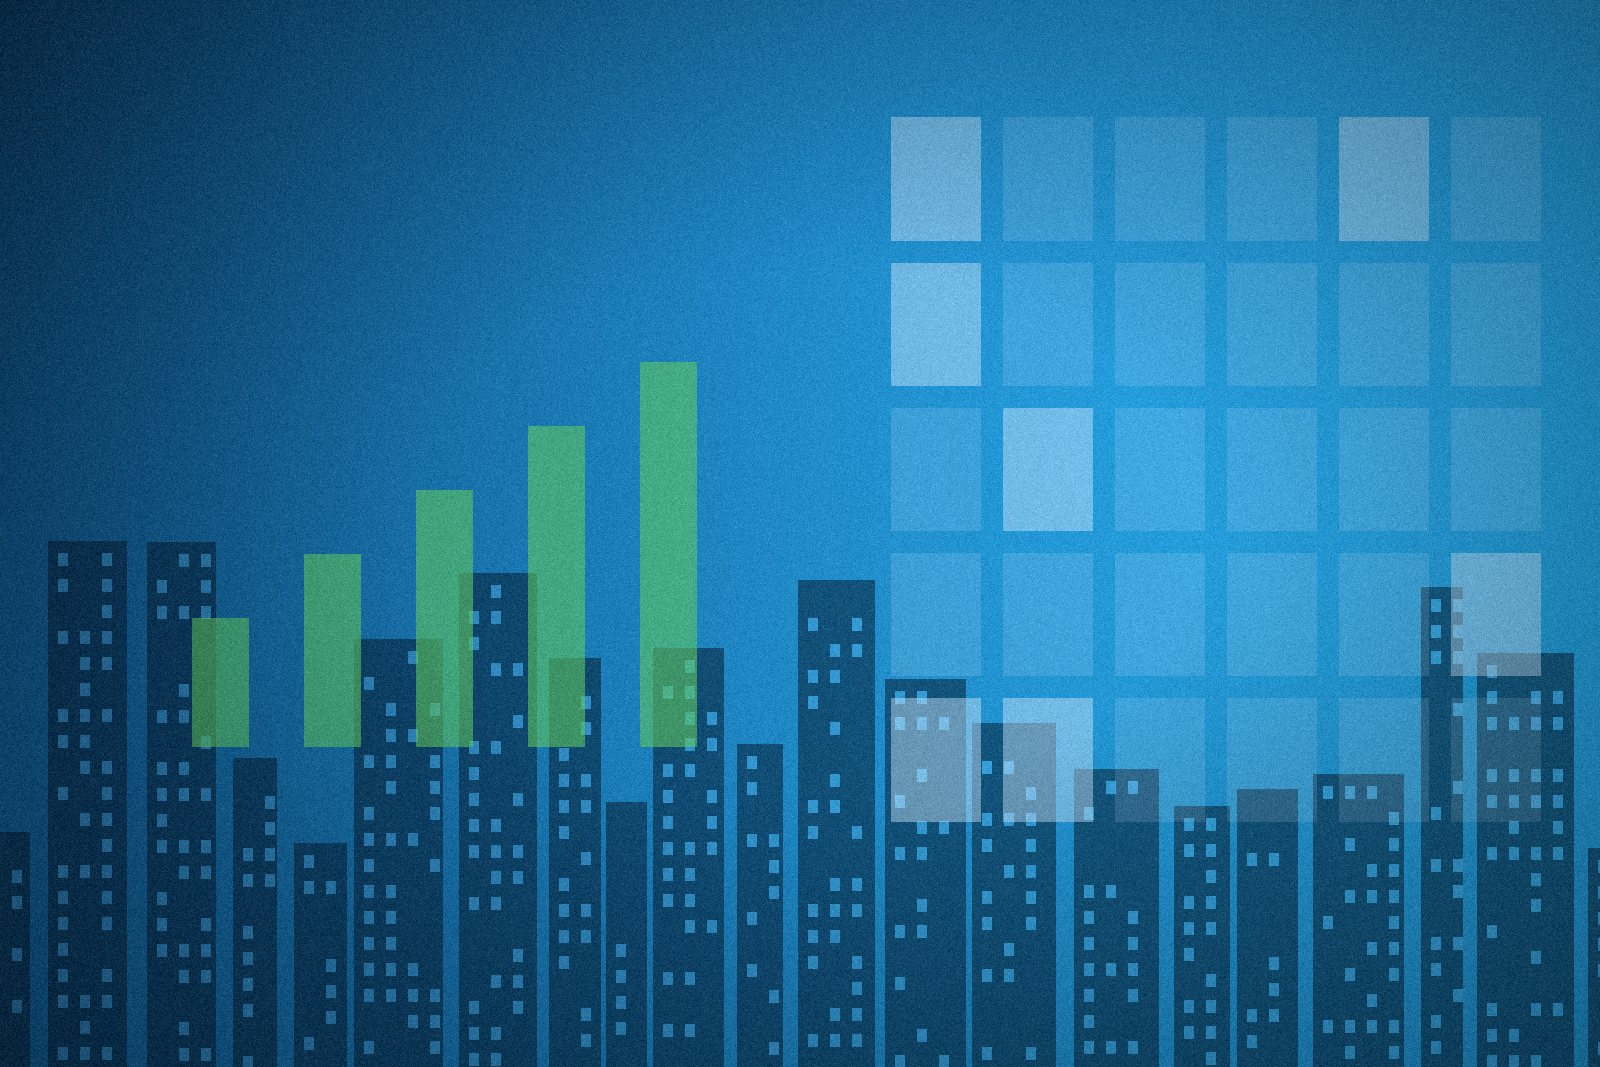
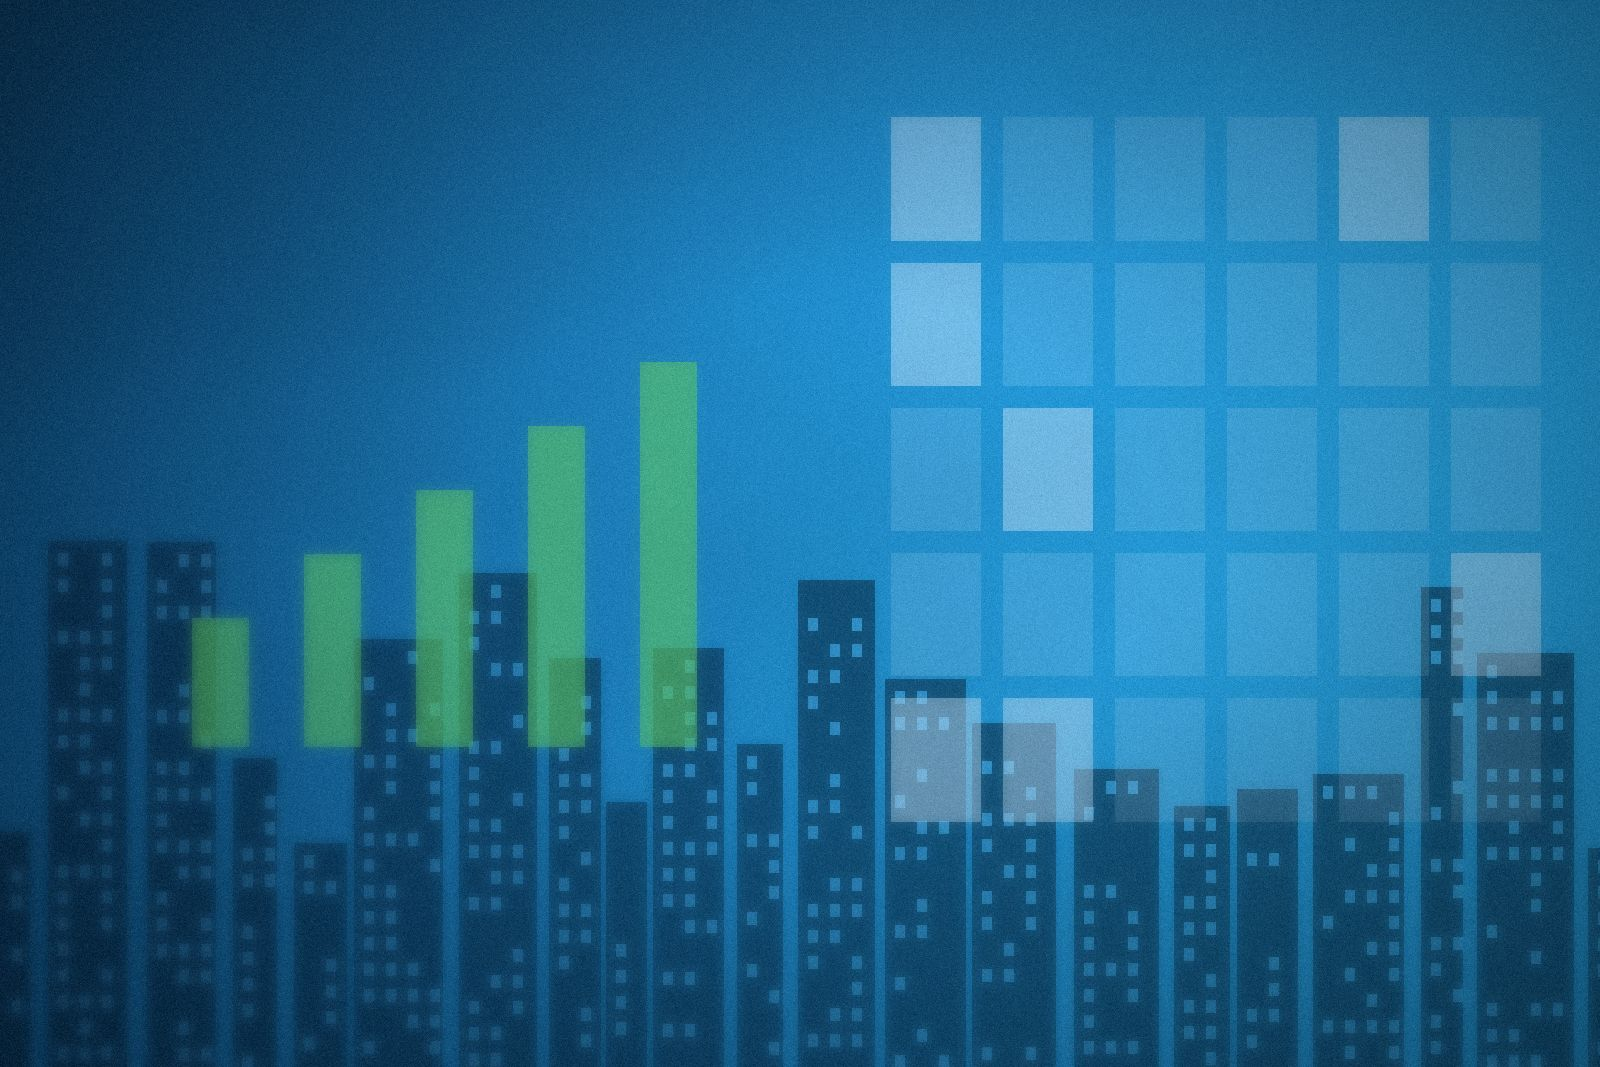
Placeholders fotografisch verfijnd + lichter gemaakt
- Dieptescherpte (depth-of-field): scherp rond het focuspunt, zachte focus-afval
  naar de randen
- Fijne film-/duotone-textuur (fractale ruis) voor een organische, niet-vlakke
  fotografische uitstraling
- Vignet en korrel verfijnd
- Bestandsgroottes flink verlaagd (progressive JPEG, q80, hero 1760px):
  hero 543KB -> 239KB; overige ~150-210KB
- make_placeholders.py bijgewerkt; bestandsnamen ongewijzigd (geen HTML-wijziging)

diff --git a/tools/make_placeholders.py b/tools/make_placeholders.py
@@ -3,11 +3,14 @@
 Yiska Cleaning VOF — premium tijdelijke placeholder-afbeeldingen.
 
 Genereert hoogwaardige, on-brand placeholder-JPG's (geen cartoons, geen stock,
-geen lege vlakken) die de site visueel compleet maken tot de definitieve
-Yiska-foto's beschikbaar zijn. Elke afbeelding gebruikt de huisstijl-gradient,
-architectuur-/glasmotieven, zacht licht, vignet en lichte korrel.
+geen lege vlakken). Naast de huisstijl-gradient en architectuur-/glasmotieven
+krijgen ze nu een fotografische afwerking:
+  • dieptescherpte (depth-of-field): zachte focus-afval naar de randen
+  • fijne film-/duotone-textuur voor een organische, niet-vlakke uitstraling
+  • vignet + korrel
+Bestandsgroottes zijn geoptimaliseerd (progressive JPEG).
 
-    python3 tools/make_placeholders.py            # -> assets/images/*-placeholder.jpg
+    python3 tools/make_placeholders.py
 """
 import os
 import numpy as np
@@ -26,6 +29,7 @@ GREEN2 = (95, 200, 95)
 STEEL = (34, 62, 92)
 
 
+# ---------- achtergrond / licht ----------
 def grad(w, h, top, bot, t_dir="diag"):
     ys = np.linspace(0, 1, h)[:, None]
     xs = np.linspace(0, 1, w)[None, :]
@@ -36,8 +40,7 @@ def grad(w, h, top, bot, t_dir="diag"):
     else:
         t = np.repeat(xs, h, axis=0)
     t = t[..., None]
-    base = np.array(top)[None, None, :] * (1 - t) + np.array(bot)[None, None, :] * t
-    return base
+    return np.array(top)[None, None, :] * (1 - t) + np.array(bot)[None, None, :] * t
 
 
 def glow(arr, center, color, sigma, strength=1.0):
@@ -46,57 +49,94 @@ def glow(arr, center, color, sigma, strength=1.0):
     cx, cy = center[0] * w, center[1] * h
     d2 = (xx - cx) ** 2 + (yy - cy) ** 2
     g = np.exp(-d2 / (2 * (sigma * max(w, h)) ** 2))[..., None] * strength
-    col = np.array(color)[None, None, :]
-    # screen-achtige blend
-    return arr + (255 - arr) * (g * (col / 255.0))
-
-
-def vignette(arr, amount=0.38):
-    h, w, _ = arr.shape
-    yy, xx = np.mgrid[0:h, 0:w]
-    d = np.sqrt(((xx - w / 2) / (w / 2)) ** 2 + ((yy - h / 2) / (h / 2)) ** 2)
-    v = np.clip(1 - amount * np.clip(d - 0.5, 0, 1.5), 0, 1)[..., None]
-    return arr * v
-
-
-def grain(arr, amount=7.0):
-    n = np.random.default_rng(7).normal(0, amount, arr.shape[:2])[..., None]
-    return arr + n
-
-
-def overlay(img, draw_fn):
-    ov = Image.new("RGBA", img.size, (0, 0, 0, 0))
-    d = ImageDraw.Draw(ov)
-    draw_fn(d, img.size)
-    return Image.alpha_composite(img.convert("RGBA"), ov).convert("RGB")
-
-
-def soft_overlay(img, draw_fn, blur=0):
-    ov = Image.new("RGBA", img.size, (0, 0, 0, 0))
-    d = ImageDraw.Draw(ov)
-    draw_fn(d, img.size)
-    if blur:
-        ov = ov.filter(ImageFilter.GaussianBlur(blur))
-    return Image.alpha_composite(img.convert("RGBA"), ov).convert("RGB")
+    return arr + (255 - arr) * (g * (np.array(color)[None, None, :] / 255.0))
 
 
 def base_image(w, h, top, bot, glow_center, glow_color, glow_sigma=0.5, glow_str=0.9):
-    arr = grad(w, h, top, bot)
-    arr = glow(arr, glow_center, glow_color, glow_sigma, glow_str)
+    return glow(grad(w, h, top, bot), glow_center, glow_color, glow_sigma, glow_str)
+
+
+# ---------- fotografische afwerking ----------
+def fractal(w, h, seed, octaves=5):
+    """Zachte fractale ruis (0..1) — wolk-/lichtachtige textuur."""
+    acc = np.zeros((h, w))
+    amp, total = 1.0, 0.0
+    rng = np.random.default_rng(seed)
+    for o in range(octaves):
+        cells = 3 * (2 ** o)
+        small = (rng.random((cells, cells)) * 255).astype(np.uint8)
+        up = np.asarray(Image.fromarray(small).resize((w, h), Image.BICUBIC)) / 255.0
+        acc += amp * up
+        total += amp
+        amp *= 0.55
+    return acc / total
+
+
+def photo_texture(arr, seed, strength=0.12, tint=BLUE2):
+    """Fijne duotone/film-textuur: organische licht-donkervariatie + lichte tint."""
+    h, w, _ = arr.shape
+    fr = fractal(w, h, seed)
+    t = (fr - fr.mean())[..., None]
+    arr = arr * (1 + strength * t)                      # luminantie-modulatie
+    arr = arr + (np.array(tint)[None, None, :] - arr) * (np.clip(t, 0, None) * 0.06)
     return arr
 
 
-def finish(arr, path, quality=84):
+def depth_of_field(img, focal=(0.5, 0.45), radius=7, focus_sigma=0.42):
+    """Zachte dieptescherpte: scherp rond het focuspunt, vervaagd naar de randen."""
+    w, h = img.size
+    blurred = img.filter(ImageFilter.GaussianBlur(radius))
+    yy, xx = np.mgrid[0:h, 0:w]
+    cx, cy = focal[0] * w, focal[1] * h
+    d2 = ((xx - cx) / w) ** 2 + ((yy - cy) / h) ** 2
+    focus = np.exp(-d2 / (2 * focus_sigma ** 2))        # 1 = scherp, 0 = vervaagd
+    mask = Image.fromarray((focus * 255).astype(np.uint8), "L")
+    return Image.composite(img, blurred, mask)
+
+
+def vignette(arr, amount=0.40):
+    h, w, _ = arr.shape
+    yy, xx = np.mgrid[0:h, 0:w]
+    d = np.sqrt(((xx - w / 2) / (w / 2)) ** 2 + ((yy - h / 2) / (h / 2)) ** 2)
+    v = np.clip(1 - amount * np.clip(d - 0.45, 0, 1.5), 0, 1)[..., None]
+    return arr * v
+
+
+def grain(arr, amount=5.0, seed=7):
+    n = np.random.default_rng(seed).normal(0, amount, arr.shape[:2])[..., None]
+    return arr + n
+
+
+def finish(img, path, focal=(0.5, 0.45), seed=1, quality=80, dof=7, max_w=None):
+    if max_w and img.size[0] > max_w:
+        nh = round(img.size[1] * max_w / img.size[0])
+        img = img.resize((max_w, nh), Image.LANCZOS)
+    img = depth_of_field(img, focal=focal, radius=dof)         # dieptescherpte
+    arr = np.asarray(img).astype(np.float64)
+    arr = photo_texture(arr, seed=seed)                        # film/duotone-textuur
     arr = vignette(arr)
-    arr = grain(arr)
+    arr = grain(arr, seed=seed)
     arr = np.clip(arr, 0, 255).astype(np.uint8)
     Image.fromarray(arr, "RGB").save(path, "JPEG", quality=quality, optimize=True, progressive=True)
     kb = os.path.getsize(path) // 1024
     print(f"  ✓ {path}  ({arr.shape[1]}x{arr.shape[0]}, {kb} KB)")
 
 
-# ---- Motieven ----
-def window_grid(d, size, cols, rows, color, lit=0.25, alpha=42, lit_alpha=120, x0=0.05, x1=0.95, y0=0.1, y1=0.95):
+def pil(arr):
+    return Image.fromarray(np.clip(arr, 0, 255).astype(np.uint8), "RGB")
+
+
+def overlay(img, draw_fn, blur=0):
+    ov = Image.new("RGBA", img.size, (0, 0, 0, 0))
+    draw_fn(ImageDraw.Draw(ov), img.size)
+    if blur:
+        ov = ov.filter(ImageFilter.GaussianBlur(blur))
+    return Image.alpha_composite(img.convert("RGBA"), ov).convert("RGB")
+
+
+# ---------- motieven ----------
+def window_grid(d, size, cols, rows, color, lit=0.25, alpha=42, lit_alpha=120,
+                x0=0.05, x1=0.95, y0=0.1, y1=0.95):
     w, h = size
     rng = np.random.default_rng(3)
     cw = (x1 - x0) * w / cols
@@ -107,8 +147,7 @@ def window_grid(d, size, cols, rows, color, lit=0.25, alpha=42, lit_alpha=120, x
             y = y0 * h + j * ch
             pad = cw * 0.10
             a = lit_alpha if rng.random() < lit else alpha
-            d.rectangle([x + pad, y + pad, x + cw - pad, y + ch - pad],
-                        fill=color + (a,))
+            d.rectangle([x + pad, y + pad, x + cw - pad, y + ch - pad], fill=color + (a,))
 
 
 def skyline(d, size, color=(4, 22, 40), alpha=150):
@@ -119,7 +158,6 @@ def skyline(d, size, color=(4, 22, 40), alpha=150):
         bw = rng.integers(40, 110)
         bh = rng.integers(int(h * 0.18), int(h * 0.5))
         d.rectangle([x, h - bh, x + bw, h], fill=color + (alpha,))
-        # vensters
         for vy in range(h - bh + 12, h - 10, 26):
             for vx in range(int(x) + 10, int(x + bw) - 8, 22):
                 if rng.random() < 0.5:
@@ -135,48 +173,47 @@ def droplet(d, size, cx, cy, s, color, alpha=70):
               fill=color + (alpha,))
 
 
-def streak(img, size, p0, p1, width, color=(255, 255, 255), alpha=46, blur=22):
+def streak(img, p0, p1, width, color=(255, 255, 255), alpha=46, blur=22):
     def fn(d, sz):
         w, h = sz
-        d.line([(p0[0] * w, p0[1] * h), (p1[0] * w, p1[1] * h)],
-               fill=color + (alpha,), width=width)
-    return soft_overlay(img, fn, blur=blur)
+        d.line([(p0[0] * w, p0[1] * h), (p1[0] * w, p1[1] * h)], fill=color + (alpha,), width=width)
+    return overlay(img, fn, blur=blur)
 
 
+# ---------- afbeeldingen ----------
 def make_hero():
-    w, h = 1920, 1200
+    w, h = 1760, 1100
     arr = base_image(w, h, NAVY, BLUE, (0.78, 0.28), BLUE2, 0.55, 1.0)
     arr = glow(arr, (0.12, 0.85), GREEN, 0.4, 0.5)
-    img = Image.fromarray(np.clip(arr, 0, 255).astype(np.uint8), "RGB")
+    img = pil(arr)
     img = overlay(img, lambda d, s: skyline(d, s))
     img = overlay(img, lambda d, s: window_grid(d, s, 9, 6, (200, 228, 250), x0=0.5, x1=0.98, y0=0.05, y1=0.8))
-    img = overlay(img, lambda d, s: droplet(d, s, 0.30, 0.42, 150, CYAN, 60))
-    img = streak(img, (w, h), (0.45, 0.1), (0.7, 0.95), 120, alpha=40, blur=40)
-    finish(np.asarray(img).astype(np.float64), f"{OUT}/hero-placeholder.jpg", 86)
+    img = overlay(img, lambda d, s: droplet(d, s, 0.30, 0.42, 140, CYAN, 60))
+    img = streak(img, (0.45, 0.1), (0.7, 0.95), 120, alpha=40, blur=40)
+    finish(img, f"{OUT}/hero-placeholder.jpg", focal=(0.72, 0.42), seed=21, quality=80, dof=8)
 
 
 def make_office():
     w, h = 1600, 1067
     arr = base_image(w, h, NAVY2, BLUE, (0.7, 0.25), BLUE2, 0.5, 0.85)
-    img = Image.fromarray(np.clip(arr, 0, 255).astype(np.uint8), "RGB")
-    # grote raamvlakken met licht
+    img = pil(arr)
     img = overlay(img, lambda d, s: window_grid(d, s, 4, 3, (210, 232, 252), lit=0.35, alpha=34, lit_alpha=120, x0=0.06, x1=0.94, y0=0.08, y1=0.92))
-    # bureaus / silhouetten onderaan
+
     def desks(d, s):
         ww, hh = s
-        for i, x in enumerate(np.linspace(0.1, 0.85, 4)):
+        for x in np.linspace(0.1, 0.85, 4):
             d.rectangle([x * ww, hh * 0.74, x * ww + ww * 0.12, hh * 0.8], fill=(8, 26, 46, 150))
     img = overlay(img, desks)
-    img = streak(img, (w, h), (0.2, 0.0), (0.5, 1.0), 90, alpha=36, blur=34)
-    finish(np.asarray(img).astype(np.float64), f"{OUT}/office-cleaning-placeholder.jpg")
+    img = streak(img, (0.2, 0.0), (0.5, 1.0), 90, alpha=36, blur=34)
+    finish(img, f"{OUT}/office-cleaning-placeholder.jpg", focal=(0.5, 0.4), seed=32, dof=6)
 
 
 def make_glass():
     w, h = 1600, 1067
     arr = base_image(w, h, (12, 60, 104), CYAN, (0.5, 0.4), (170, 215, 250), 0.6, 0.7)
-    img = Image.fromarray(np.clip(arr, 0, 255).astype(np.uint8), "RGB")
+    img = pil(arr)
     img = overlay(img, lambda d, s: window_grid(d, s, 3, 2, (255, 255, 255), lit=0.0, alpha=30, x0=0.05, x1=0.95, y0=0.06, y1=0.94))
-    # waterdruppels
+
     def drops(d, s):
         ww, hh = s
         rng = np.random.default_rng(5)
@@ -185,18 +222,17 @@ def make_glass():
             r = rng.integers(2, 7)
             d.ellipse([x, y, x + r, y + r], fill=(255, 255, 255, 40))
     img = overlay(img, drops)
-    # squeegee-veeg (schone diagonale baan)
-    img = streak(img, (w, h), (0.1, 0.15), (0.85, 0.7), 150, alpha=70, blur=30)
-    img = streak(img, (w, h), (0.12, 0.2), (0.87, 0.75), 8, alpha=120, blur=4)
-    finish(np.asarray(img).astype(np.float64), f"{OUT}/glass-cleaning-placeholder.jpg")
+    img = streak(img, (0.1, 0.15), (0.85, 0.7), 150, alpha=70, blur=30)
+    img = streak(img, (0.12, 0.2), (0.87, 0.75), 8, alpha=120, blur=4)
+    finish(img, f"{OUT}/glass-cleaning-placeholder.jpg", focal=(0.5, 0.45), seed=43, dof=5)
 
 
 def make_commercial():
     w, h = 1600, 1067
     arr = base_image(w, h, NAVY, STEEL, (0.25, 0.2), BLUE, 0.5, 0.7)
     arr = glow(arr, (0.85, 0.9), GREEN, 0.35, 0.45)
-    img = Image.fromarray(np.clip(arr, 0, 255).astype(np.uint8), "RGB")
-    # hoge bedrijfsgevels
+    img = pil(arr)
+
     def facades(d, s):
         ww, hh = s
         for x, bw, bh in [(0.05, 0.2, 0.8), (0.28, 0.16, 0.62), (0.47, 0.22, 0.92), (0.72, 0.18, 0.7), (0.9, 0.14, 0.5)]:
@@ -204,66 +240,63 @@ def make_commercial():
             window_grid(d, s, 4, int(bh * 14), (190, 222, 248), lit=0.3, alpha=26, lit_alpha=90,
                         x0=x, x1=x + bw, y0=1 - bh, y1=1.0)
     img = overlay(img, facades)
-    finish(np.asarray(img).astype(np.float64), f"{OUT}/commercial-cleaning-placeholder.jpg")
+    finish(img, f"{OUT}/commercial-cleaning-placeholder.jpg", focal=(0.5, 0.5), seed=54, dof=6)
 
 
 def make_about():
     w, h = 1600, 1067
     arr = base_image(w, h, (10, 50, 70), GREEN, (0.7, 0.7), GREEN2, 0.5, 0.55)
     arr = glow(arr, (0.25, 0.25), BLUE2, 0.45, 0.7)
-    img = Image.fromarray(np.clip(arr, 0, 255).astype(np.uint8), "RGB")
-    # zachte, overlappende cirkels (warmte/samenwerking, abstract)
+    img = pil(arr)
+
     def circles(d, s):
         ww, hh = s
-        for cx, cy, r, a in [(0.3, 0.55, 0.22, 40), (0.5, 0.45, 0.26, 34), (0.68, 0.6, 0.2, 44)]:
+        for cx, cy, r in [(0.3, 0.55, 0.22), (0.5, 0.45, 0.26), (0.68, 0.6, 0.2)]:
             d.ellipse([(cx - r) * ww, (cy - r) * hh, (cx + r) * ww, (cy + r) * hh],
                       outline=(255, 255, 255, 70), width=3)
     img = overlay(img, circles)
     img = overlay(img, lambda d, s: droplet(d, s, 0.5, 0.42, 90, (255, 255, 255), 26))
-    img = streak(img, (w, h), (0.3, 0.0), (0.6, 1.0), 80, alpha=30, blur=36)
-    finish(np.asarray(img).astype(np.float64), f"{OUT}/about-placeholder.jpg")
+    img = streak(img, (0.3, 0.0), (0.6, 1.0), 80, alpha=30, blur=36)
+    finish(img, f"{OUT}/about-placeholder.jpg", focal=(0.5, 0.48), seed=65, dof=7)
 
 
 def make_business():
     w, h = 1600, 1067
     arr = base_image(w, h, NAVY, BLUE, (0.8, 0.2), BLUE2, 0.5, 0.85)
-    img = Image.fromarray(np.clip(arr, 0, 255).astype(np.uint8), "RGB")
+    img = pil(arr)
     img = overlay(img, lambda d, s: skyline(d, s, color=(5, 24, 44), alpha=130))
-    # opgaande staven (groei)
+
     def bars(d, s):
         ww, hh = s
         for i, x in enumerate(np.linspace(0.12, 0.4, 5)):
             bh = 0.12 + i * 0.06
-            d.rectangle([x * ww, hh * (0.7 - bh), x * ww + ww * 0.035, hh * 0.7],
-                        fill=GREEN2 + (150,))
+            d.rectangle([x * ww, hh * (0.7 - bh), x * ww + ww * 0.035, hh * 0.7], fill=GREEN2 + (150,))
     img = overlay(img, bars)
     img = overlay(img, lambda d, s: window_grid(d, s, 6, 5, (200, 228, 250), x0=0.55, x1=0.97, y0=0.1, y1=0.78))
-    finish(np.asarray(img).astype(np.float64), f"{OUT}/business-placeholder.jpg")
+    finish(img, f"{OUT}/business-placeholder.jpg", focal=(0.72, 0.4), seed=76, dof=6)
 
 
 def make_contact():
-    w, h = 1600, 1067
+    w, h = 1600, 900
     arr = base_image(w, h, (8, 40, 66), BLUE, (0.5, 0.35), BLUE2, 0.55, 0.8)
     arr = glow(arr, (0.5, 0.9), GREEN, 0.4, 0.4)
-    img = Image.fromarray(np.clip(arr, 0, 255).astype(np.uint8), "RGB")
+    img = pil(arr)
 
     def pin(d, s):
         ww, hh = s
-        cx, cy, r = 0.5 * ww, 0.42 * hh, 0.1 * hh
+        cx, cy, r = 0.5 * ww, 0.42 * hh, 0.12 * hh
         for rr, a in [(2.6, 26), (2.0, 34), (1.4, 50)]:
-            d.ellipse([cx - r * rr, cy - r * rr, cx + r * rr, cy + r * rr],
-                      outline=(255, 255, 255, a), width=3)
-        d.ellipse([cx - r, cy - r, cx + r, cy + r], fill=(255, 255, 255, 230))
-        d.polygon([(cx - r * 0.7, cy + r * 0.5), (cx + r * 0.7, cy + r * 0.5), (cx, cy + r * 1.9)],
-                  fill=(255, 255, 255, 230))
+            d.ellipse([cx - r * rr, cy - r * rr, cx + r * rr, cy + r * rr], outline=(255, 255, 255, a), width=3)
+        d.ellipse([cx - r, cy - r, cx + r, cy + r], fill=(255, 255, 255, 235))
+        d.polygon([(cx - r * 0.7, cy + r * 0.5), (cx + r * 0.7, cy + r * 0.5), (cx, cy + r * 1.9)], fill=(255, 255, 255, 235))
         d.ellipse([cx - r * 0.36, cy - r * 0.36, cx + r * 0.36, cy + r * 0.36], fill=BLUE + (255,))
     img = overlay(img, pin)
-    finish(np.asarray(img).astype(np.float64), f"{OUT}/contact-placeholder.jpg")
+    finish(img, f"{OUT}/contact-placeholder.jpg", focal=(0.5, 0.42), seed=87, dof=5)
 
 
 if __name__ == "__main__":
     os.makedirs(OUT, exist_ok=True)
-    print("Premium placeholders genereren…")
+    print("Premium placeholders genereren (fotografische afwerking)…")
     make_hero(); make_office(); make_glass(); make_commercial()
     make_about(); make_business(); make_contact()
     print("Klaar.")
